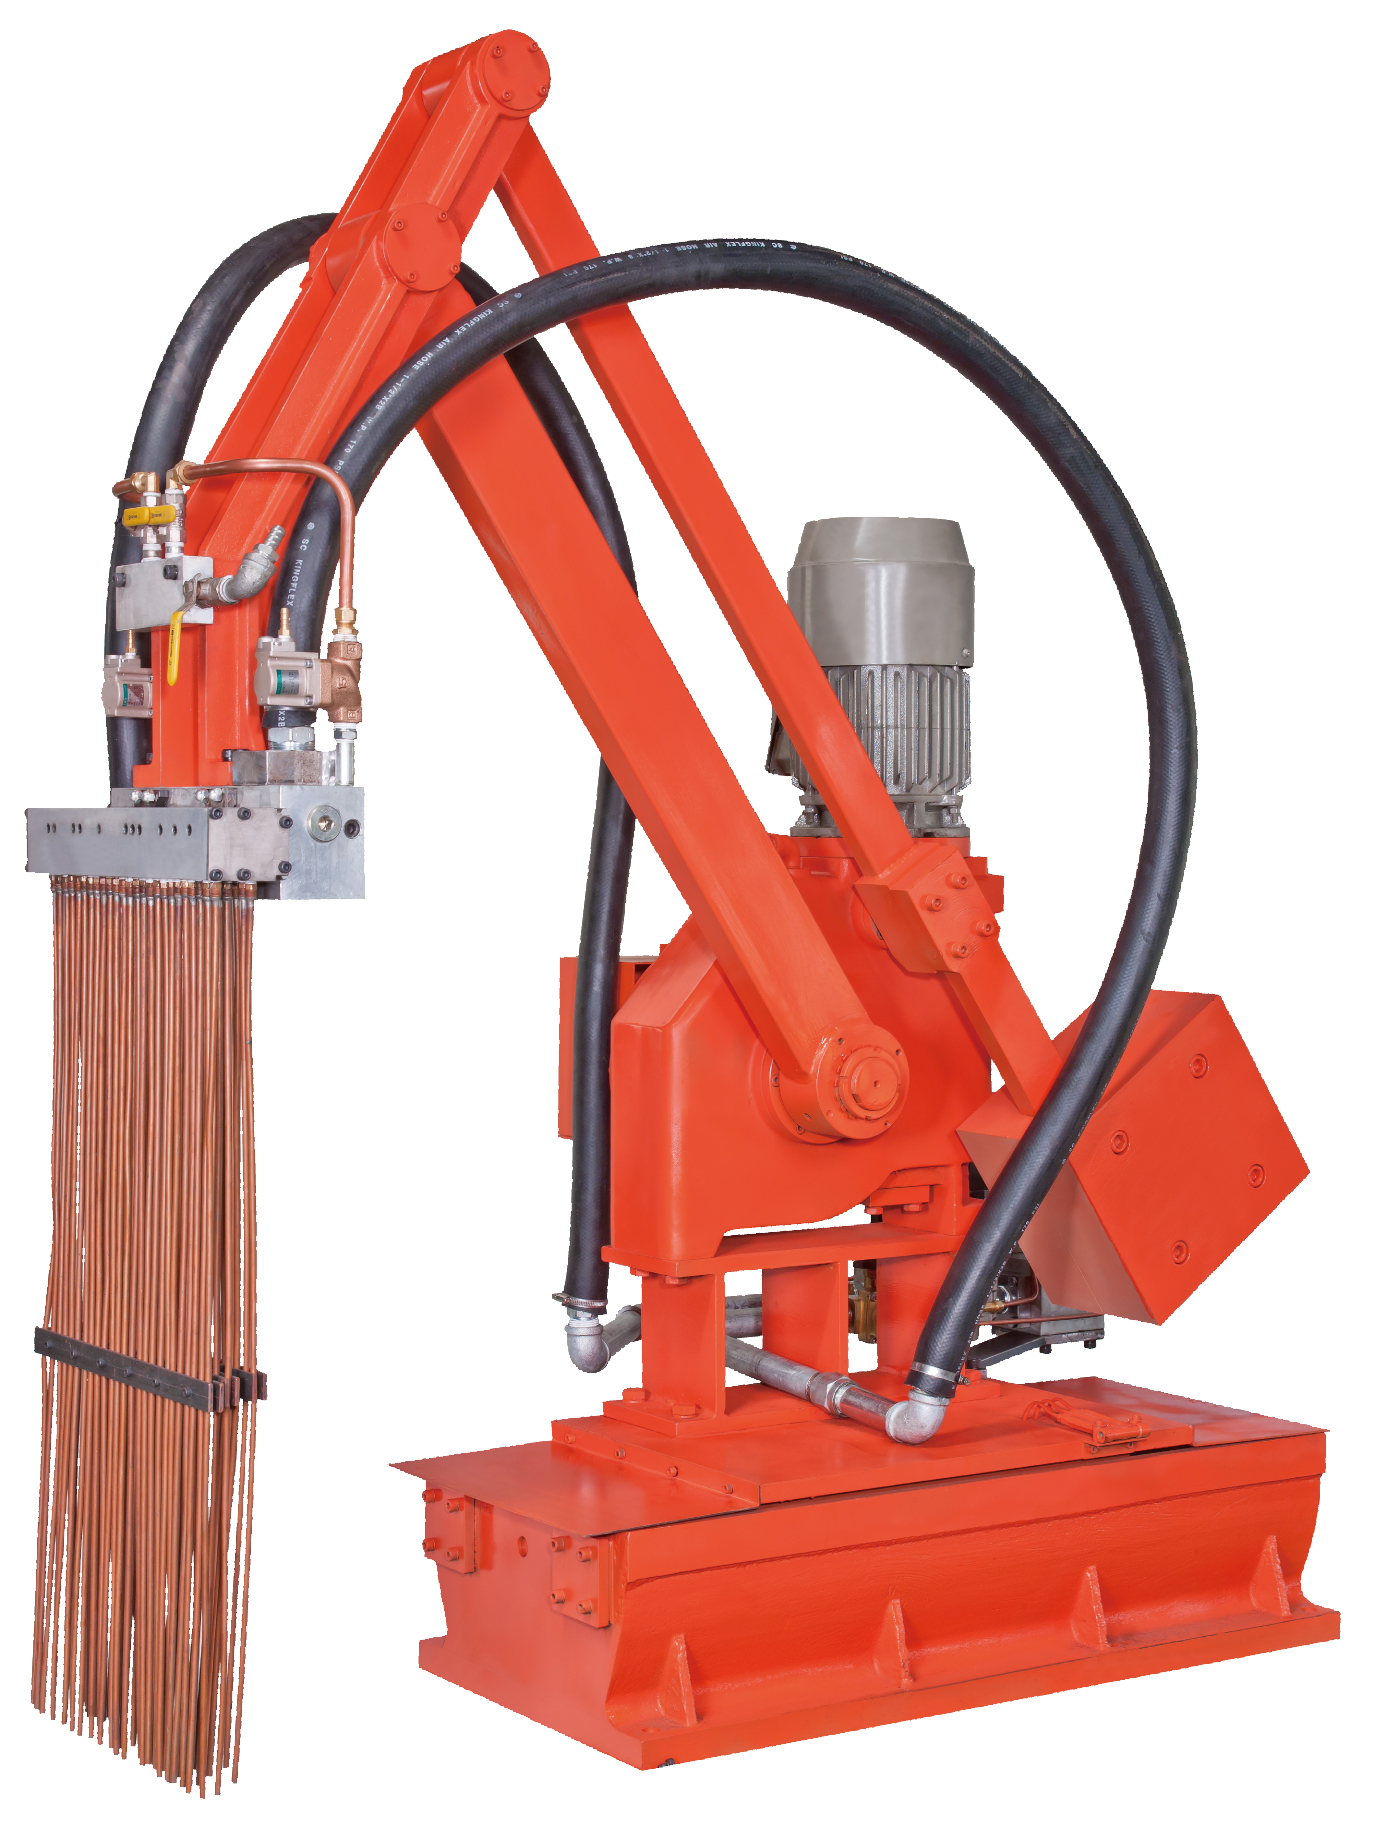
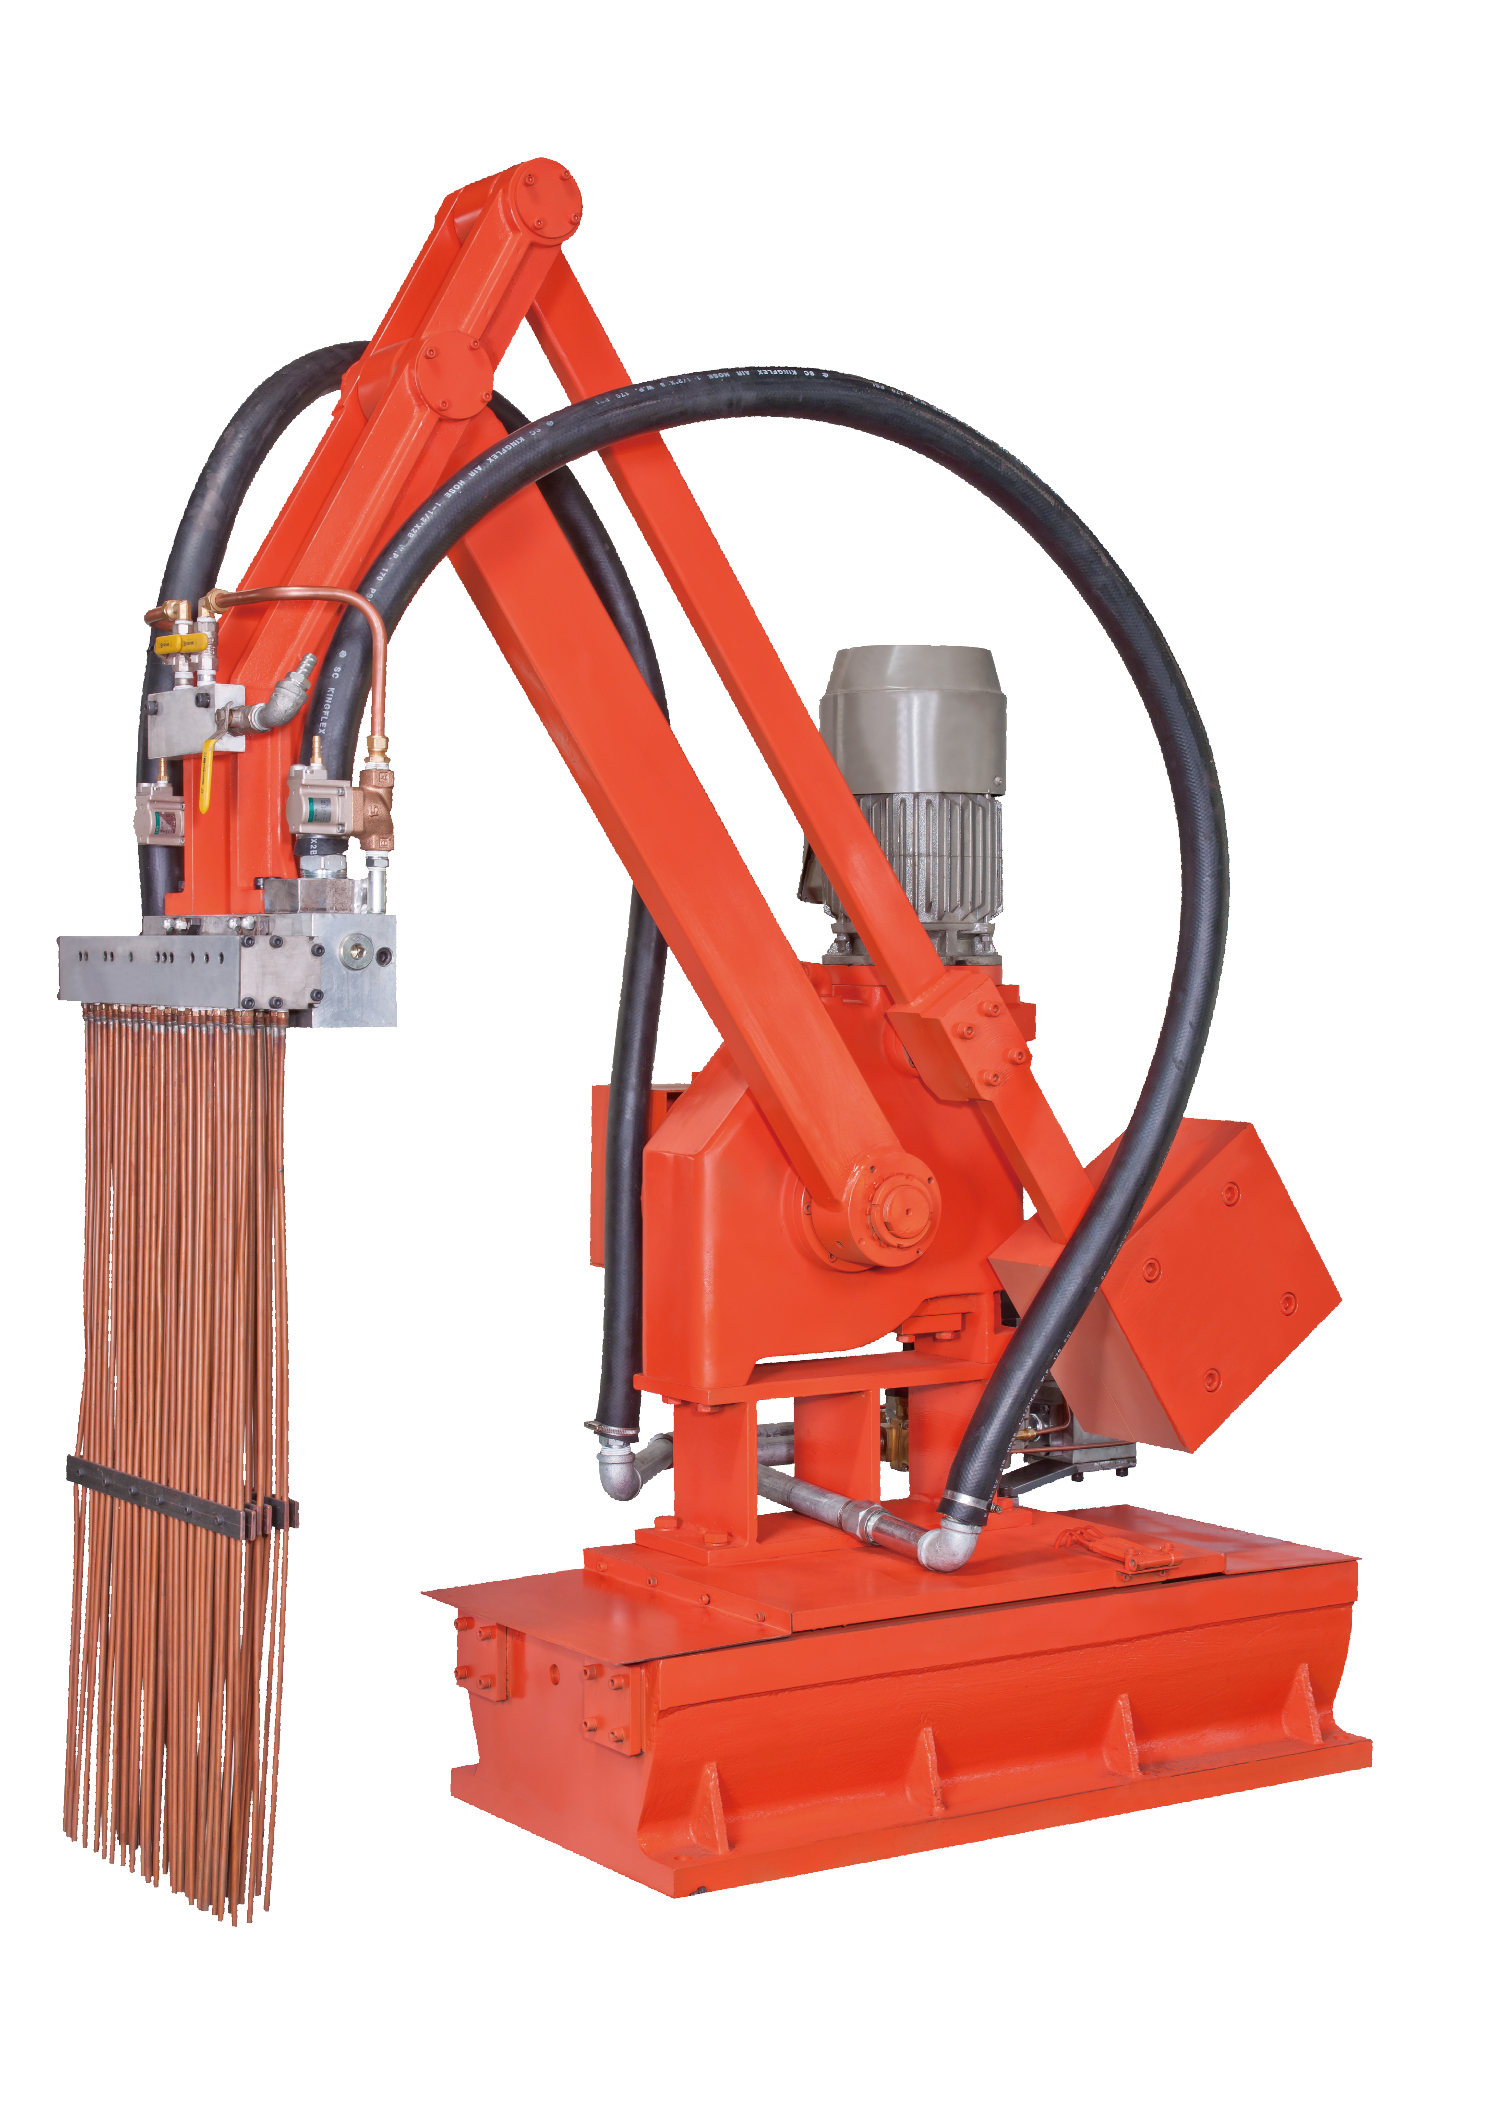
adjust pic size of peripherals

diff --git a/assets/css/main.css b/assets/css/main.css
@@ -2031,6 +2031,41 @@ body .is-preload .banner:before {
 }
 
 /*關於永大*/
+.about-head {
+  width: 100%;
+  height: 500px;
+  background-image: url("../../images/factory.jpeg");
+  background-repeat: no-repeat;
+  background-attachment: fixed;
+  background-size: 100%;
+  position: relative;
+  padding: 8% 20% 0;
+}
+.about-head img {
+  width: 80%;
+  margin: 15px auto;
+  display: block;
+}
+.about-head p {
+  height: auto;
+  text-align: center;
+  color: white;
+  margin: auto;
+}
+@media screen and (max-width: 769px) {
+  .about-head {
+    background-size: auto 600px;
+    background-position: center top;
+    padding: 15% 10% 0;
+  }
+}
+@media screen and (max-width: 480px) {
+  .about-head img {
+    width: 100%;
+    margin: 25px auto;
+  }
+}
+
 #main .about-content {
   color: #272727;
   width: 100%;
@@ -2043,7 +2078,6 @@ body .is-preload .banner:before {
   background-repeat: no-repeat;
 
 }
-
 #main .about-content h2 {
   font-weight: 300;
   font-size: 2.25rem;
@@ -2061,7 +2095,6 @@ body .is-preload .banner:before {
 #main .about-content .h2-en {
   font-size: 30px;
 }
-
   @media screen and (max-width: 1400px) {
     #main .about-content {
       padding: 2rem 1rem;
@@ -2084,27 +2117,7 @@ body .is-preload .banner:before {
       background-image: none;
     }
   }
-.head {
-  width: 100%;
-  height: 500px;
-  background-image: url("../../images/factory.jpeg");
-  background-repeat: no-repeat;
-  background-attachment: fixed;
-  background-size: 100%;
-  position: relative;
-  padding: 8% 20% 0;
-}
-.head img {
-  width: 80%;
-  margin: 15px auto;
-  display: block;
-}
-.head p {
-  height: auto;
-  text-align: center;
-  color: white;
-  margin: auto;
-}
+
 .h-400 {
   height: 400px;
 }
@@ -2121,21 +2134,12 @@ body .is-preload .banner:before {
   width: 300px;
 }
 @media screen and (max-width: 769px) {
-  .head {
-    background-size: auto 600px;
-    background-position: center top;
-    padding: 15% 10% 0;
-  }
   .h-400 {
     height: auto;
     margin: 3rem 0 0;
   }
 }
 @media screen and (max-width: 480px) {
-  .head img {
-    width: 100%;
-    margin: 25px auto;
-  }
   .row-reverse {
     flex-direction: column;
   }
@@ -2150,145 +2154,6 @@ body .is-preload .banner:before {
   }
 }
 
-
-/*.about-content .intro-item-head {
-  padding: 3rem 1rem;
-  width: 1400px;
-  height: 350px;
-  margin: 0 auto;
-  max-width: 100%;
-}
-  .about-content .intro-item-head img{
-    width: 40%;
-    height: auto;
-  }
-  .about-content .intro-item-head p{
-    margin: 0;
-  }
-.about-content .intro-item{
-  margin: 1rem 0;
-  width: 1400px;
-  max-width: 100%;
-}
-.about-content .right {
-  margin-left: 20%;
-}
-
-
-.numberCircle {
-    border-radius: 50%;
-    width: 200px;
-    height: 200px;
-    padding: 8px;
-    background-color: #fff;
-
-    border: 5px solid #272727;
-    color: #000;
-    text-align: center;
-
-    font-size: 100px;
-    line-height: 150px;
-}
-.about-content .h-align {
-    display:inline-flex;
-    align-items:center;
-}
-.about-content .h-align:nth-child(2){
-    flex-direction: row-reverse;
-}
-.about-content .intro-item img{
-  width: 50%;
-  /*box-shadow: 5px 5px 5px 4px rgba(0, 0, 0, 0.15);
-  border: 2px solid #fff;
-}
-.about-content .intro-item .en-h2 {
-  font-size: 30px;
-}
-.cert {
-  width: 30%;
-}
-.middle {
-  content: '';
-  width: 50px;
-}
-.h-auto {
-  height: 350px;
-  margin: 0px;
-}
-.undraw-about {
-  width: 350px;
-  height: 350px;
-}
-
-@media screen and (max-width: 769px){
-  .about-content .intro-item {
-    height: 250px;
-  }
-  .about-content .intro-item img{
-    width: 40%;
-  }
-  .about-content .intro-item .en-h2{
-    font-size: 22px;
-  }
-  .about-content .num-2 {
-    display: block;
-  }
-  .about-content .intro-item img {
-    display: none;
-  }
-  .undraw-about {
-    width: 250px;
-    height: 250px;
-  }
-  .middle {
-    display: none;
-  }
-}
-@media screen and (max-width: 480px){
-  .about-content .intro-item-head {
-    min-width: 100%;
-    width: 100%;
-    padding: 0px;
-    margin-bottom: 20px;
-  }
-  .about-content .intro-item-head img {
-    width: 100%;
-  }
-  .about-content .intro-item-head p {
-    width: 100%;
-    padding: 0 10px;
-  }
-
-  .about-content .intro-item {
-    height: auto;
-    margin-top: 80px;
-  }
-
-  .about-content .intro-item .h-align:nth-child(2){
-    flex-direction: column;
-  }
-  .about-content .h-align {
-    min-width: 100%;
-    width: 100%;
-    display: block;
-  }
-  .numberCircle {
-    height: auto;
-    padding: 0px;
-    border: none;
-    text-align: left;
-  }
-
-  .cert {
-    width: 80%;
-  }
-  .undraw-about {
-    width: 80%;
-    height: auto;
-  }
-}*/
-
-
 /*產品頁面*/
 * ZOOM CONTAINER */
 .zoom                     { display: block; margin: 0 auto; }
@@ -2299,17 +2164,20 @@ body .is-preload .banner:before {
 .large p                  { font-size: 16px; width: 600px; }
 
 /* FOR IMAGE DEMO */
-.small img                { width: 300px;}
+.small img                { height: auto; width: 250px;}
 
-@media screen and (max-width: 480px){
+@media screen and (max-width: 769px){
   .small img {
     max-height: 100%;  
-    max-width: 100%; 
+    max-width: 100%;
+    height: 350px;
     width: auto;
-    height: 300px;
   }
-  .large img{
-    display: none;
+}
+@media screen and (max-width: 480px){
+  .small img {
+    height: auto;
+    width: 300px;
   }
 }
 
@@ -2681,6 +2549,7 @@ body .is-preload .banner:before {
 .elec-sys .sys-intro img {
   width: auto;
   height: 530px;
+  margin-right: 1rem;
 }
 .elec-sys h3 {
   font-weight: 400;
@@ -2721,6 +2590,7 @@ body .is-preload .banner:before {
   .elec-sys .sys-intro img {
     width: 60%;
     height: auto;
+    margin-right: 0rem;
   }
 }
 .sys-mode {

diff --git a/en/about.html b/en/about.html
@@ -66,7 +66,10 @@
 				<li class="lang-choose"><a href="../zh-tw/about.html"><i class="icon fa-globe"></i><b> 中</b></a></li>
 			</nav>
 		</header>
-		<div class="head"><img class="wow fadeIn" data-wow-duration="3s" src="../images/index-pic/banner-test.png"><p class="wow fadeIn" data-wow-duration="3s">EVERGREAT Machinery was founded in Tainan City, Taiwan in 1964. Starting as a plastic foundry, we then turned to a manufacturer specializing in cold-chamber die casting machine. As our business scale gradully expanded, we set up our first branch in Shenzhen City, Guangdong Province in 1999 as an entry to the China mainland market.</p></div>
+		<div class="about-head wow fadeIn" data-wow-duration="1.5s">
+			<img src="../images/index-pic/banner-test.png">
+			<p>EVERGREAT Machinery was founded in Tainan City, Taiwan in 1964. Starting as a plastic foundry, we then turned to a manufacturer specializing in cold-chamber die casting machine. As our business scale gradully expanded, we set up our first branch in Shenzhen City, Guangdong Province in 1999 as an entry to the China mainland market.</p>
+		</div>
 
 		<!-- Main -->
 		<section id="main" class="wrapper">

diff --git a/zh-tw/about.html b/zh-tw/about.html
@@ -81,7 +81,10 @@
 				<li class="lang-choose"><a href="../en/about.html"><i class="icon fa-globe"></i><b> EN</b></a></li>
 			</nav>
 		</header>
-		<div class="head"><img class="wow fadeIn" data-wow-duration="3s" src="../images/index-pic/banner-test.png"><p class="wow fadeIn" data-wow-duration="3s">永大機械股份有限公司於西元1964年發跡於台南永康，成立初期以塑膠代工為主，隨後投入技術門檻更進階的冷室壓鑄機為製造主力。<br>隨著事業規模逐漸擴大，永大機械於西元1999年投入中國大陸市場，並且在廣東省深圳市設立分公司。</p></div>
+		<div class="about-head wow fadeIn" data-wow-duration="1.5s">
+			<img src="../images/index-pic/banner-test.png">
+			<p>永大機械股份有限公司於西元1964年發跡於台南永康，成立初期以塑膠代工為主，隨後投入技術門檻更進階的冷室壓鑄機為製造主力。<br>隨著事業規模逐漸擴大，永大機械於西元1999年投入中國大陸市場，並且在廣東省深圳市設立分公司。</p>
+		</div>
 
 		<!-- Main -->
 		<section id="main" class="wrapper">
